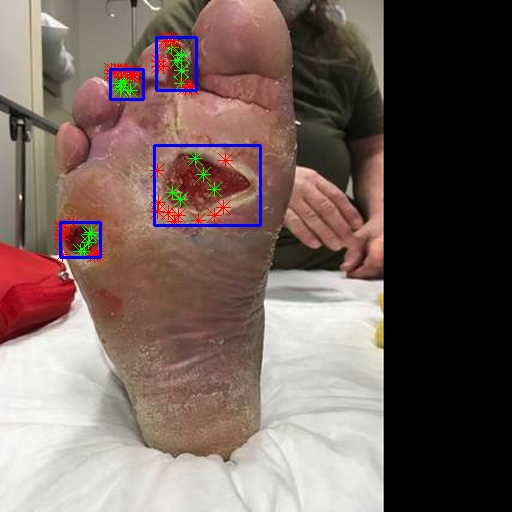
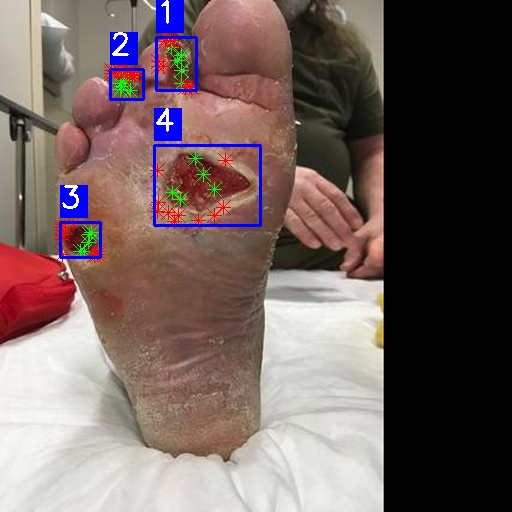
upgrade_app_web_v_1.3
la pagina muestra tiempo de ejecucion y cantidad de pixeles por lesion.

diff --git a/app_segmentation_lesion/static/js/main.js b/app_segmentation_lesion/static/js/main.js
@@ -7,7 +7,7 @@ const pointsImage = document.getElementById('pointsImage'); // Agrega esta líne
 // const detectedImage = document.getElementById('detectedImage');
 const downloadLink = document.getElementById('downloadLink');
 const spinner = document.getElementById('spinner');
-
+const pixelCountsContainer = document.getElementById('pixelCountsContainer');
 
 // Ocultar el enlace de descarga al inicio
 downloadLink.style.display = "none";
@@ -61,9 +61,6 @@ function checkForImages(attempts) {
     });
 }
 
-
-
-
 // Funcionalidad para enviar la imagen para detección
 form.addEventListener('submit', function(e) {
     e.preventDefault();
@@ -77,15 +74,66 @@ form.addEventListener('submit', function(e) {
         method: 'POST',
         body: formData
     })
-    .then(() => {
-        // Iniciar la verificación de imágenes
-        checkForImages(0);
+    .then(response => response.json()) // Procesar la respuesta en formato JSON
+    .then(data => {
+        // Ocultar el spinner
+        spinner.style.display = 'none';
+
+        // Mostrar los recuentos de píxeles
+
+        // Mostrar el tiempo de ejecución
+        const executionTimeElement = document.getElementById('executionTime');
+        executionTimeElement.textContent = `Processing Time: ${data.processing_time.toFixed(2)} s`;
+
+        // Mostrar los recuentos de píxeles
+        const pixelCountsContainer = document.getElementById('pixelCountsContainer');
+        pixelCountsContainer.innerHTML = '<h4>Pixel Counts:</h4>';
+        data.pixel_counts.forEach((count, index) => {
+            pixelCountsContainer.innerHTML += `<p>Lesion ${index + 1}: ${count} px</p>`;
+        });
+
+        // Mostrar las imágenes procesadas
+        overlayImage.src = '/static/' + data.overlay_path;
+        maskImage.src = '/static/' + data.mask_path;
+        pointsImage.src = '/static/' + data.bbox_path;
+
+        // Mostrar el enlace de descarga y las imágenes
+        downloadLink.href = `/static/${data.overlay_path.split('/').pop()}`;
+        downloadLink.style.display = "block";
+        overlayImage.style.display = "block";
+        maskImage.style.display = "block";
+        pointsImage.style.display = "block";
     })
     .catch(error => {
         spinner.style.display = 'none';
         console.error('Error:', error);
     });
 });
+
+
+
+// Funcionalidad para enviar la imagen para detección
+// form.addEventListener('submit', function(e) {
+//     e.preventDefault();
+
+//     // Mostrar el spinner
+//     spinner.style.display = 'block';
+
+//     const formData = new FormData(this);
+
+//     fetch('/detect_lesion', {
+//         method: 'POST',
+//         body: formData
+//     })
+//     .then(() => {
+//         // Iniciar la verificación de imágenes
+//         checkForImages(0);
+//     })
+//     .catch(error => {
+//         spinner.style.display = 'none';
+//         console.error('Error:', error);
+//     });
+// });
 
 
 // Función para verificar si hay imágenes en la carpeta 'static/detect_results'

diff --git a/app_segmentation_lesion/static/css/styles_2.css b/app_segmentation_lesion/static/css/styles_2.css
@@ -155,6 +155,24 @@ body, html {
     font-size: 18px; /* Tamaño de fuente más grande */
 }
 
+#resultsContainer {
+    margin-top: 20px;
+    padding: 15px;
+    border: 1px solid #ddd;
+    border-radius: 5px;
+    background-color: #f9f9f9;
+}
+
+#resultsContainer h3, #resultsContainer h4 {
+    color: #333;
+}
+
+#resultsContainer p {
+    color: #666;
+    margin-left: 20px;
+}
+
+
   /* Animación de Carga */
 #spinner {
     display: none;

diff --git a/app_segmentation_lesion/templates/index.html b/app_segmentation_lesion/templates/index.html
@@ -73,6 +73,11 @@
         <div class="main-row4" id="download-container">
             <a href="#" download class="btn btn-success" id="downloadLink">Download</a>
         </div>
+        <div id="resultsContainer">
+            <h3>Segmentation Results:</h3>
+            <p id="executionTime"></p>
+            <div id="pixelCountsContainer"></div>
+        </div>
         <div id="spinner" class="mt-3">
             <div></div>
         </div>

diff --git a/app_segmentation_lesion/app.py b/app_segmentation_lesion/app.py
@@ -11,7 +11,7 @@ import detect
 import generate_EDSR as gen_EDSR
 import tool_SVM
 import tool
-
+import time 
 sys.path.append("..")
 from segment_anything import sam_model_registry, SamPredictor
 from tqdm import tqdm
@@ -36,6 +36,7 @@ def index():
 
 @app.route("/detect_lesion", methods=['POST'])
 def detect_lesion():
+    start_time = time.time()  # Tiempo de inicio
     ruta_carpeta = 'predicts_RGB_VGG_VER'
     tool.create_new_file(ruta_carpeta)
     tool.create_new_file('crops')
@@ -81,6 +82,7 @@ def detect_lesion():
     img_view_2 = img.copy()
     img_bbox = img.copy()
 
+    pixel_counts = []  # Lista para almacenar el recuento de píxeles por máscara
 
     for bbox in bboxes:
         bbox = bbox[0]
@@ -116,8 +118,6 @@ def detect_lesion():
         if (method == 1 or method == 2 or method == 3):
             input_point_all, input_label_all = tool_SVM.prediction_SVM_predict('.', ruta_carpeta, 'generate_images_sr_img', n_segment, compactness, sigma, threshold , layer, [uploaded_file.filename], method, predictor, uploaded_file.filename)
         
-        
-
         #actualizacion de coordenadas
         for coord in input_point_all:
             coord[0] = x1 + coord[0]*fw
@@ -126,9 +126,15 @@ def detect_lesion():
         mask_pred = tool.segment_image(img, input_point_all, input_label_all, bbox, predictor)
         masks_pred.append(mask_pred)
 
+        # Cuenta los píxeles con valor 1 y almacénalo
+        pixel_count = np.sum(mask_pred == 1)
+        pixel_counts.append(pixel_count)
+
         # Actualizar img_view_2 y img_bbox dentro del bucle
         img_view_2 = tool.show_points_on_image(img_view_2, input_point_all, input_label_all, complete=True)
-        img_bbox = tool.draw_bbox(img_view_2, bbox, color=(255, 0, 0))
+
+
+    img_bbox = tool.draw_bbox_with_numbered_labels(img_view_2, bboxes, color=(255, 0, 0))
 
     if masks_pred:
         mask_predict_final = tool.unir_mascaras(masks_pred)
@@ -154,9 +160,14 @@ def detect_lesion():
     shutil.move('{}/{}/{}'.format(ruta_carpeta, 'marcas_images','mask.jpg'), destination_folder)
     shutil.move('{}/{}/{}'.format(ruta_carpeta, 'images_bbox', 'bbox_points.jpg'), destination_folder)
 
-    image_path = os.path.join('detect_results', uploaded_file.filename)
+    pixel_counts = [int(count) for count in pixel_counts]
+    end_time = time.time()  # Tiempo de finalización
+    processing_time = end_time - start_time  # Calcula el tiempo total
+    print(f"Tiempo de procesamiento: {processing_time} segundos")
     
     return jsonify({
+            "pixel_counts": pixel_counts,
+            "processing_time": processing_time,
             "overlay_path": os.path.join('detect_results', uploaded_file.filename),
             "mask_path": os.path.join('detect_results', 'mask.jpg'),
             "bbox_path": os.path.join('detect_results', 'bbox_points.jpg')

diff --git a/app_segmentation_lesion/tool.py b/app_segmentation_lesion/tool.py
@@ -820,7 +820,65 @@ def labels_visual_unet(img, mask, mask_sp):
   return mask, mask_sp, img, img_comparative
 
 
-def draw_bbox(img, bboxes, color=(255, 0, 0), thickness=2):
+
+def draw_bbox_with_numbered_labels(img, bboxes, color=(255, 0, 0), thickness=2, label_color=(255, 255, 255), label_bg_color=(255, 0, 0)):
+    """
+    Dibuja bounding boxes en la imagen con etiquetas numéricas.
+
+    Args:
+    img: Imagen en la que dibujar los bounding boxes.
+    bboxes: Lista de tuplas de bounding boxes, donde cada tupla contiene una lista de las coordenadas
+            del bounding box.
+    color: Color del bounding box en formato BGR. Por defecto es rojo.
+    thickness: Grosor de las líneas del bounding box. Por defecto es 2.
+    label_color: Color del texto de la etiqueta. Por defecto es blanco.
+    label_bg_color: Color de fondo para la etiqueta. Por defecto es rojo.
+
+    Returns:
+    img: Imagen con los bounding boxes y etiquetas numéricas dibujados.
+    """
+    font = cv2.FONT_HERSHEY_SIMPLEX
+    font_scale = 1
+    font_thickness = 2
+
+    for idx, bbox in enumerate(bboxes, start=1):
+        
+        bbox = bbox[0]
+        bbox = np.asarray(bbox, dtype=np.int32)
+        
+        
+        coordinates = bbox
+        start_point = (int(coordinates[0]), int(coordinates[1]))  # Coordenadas de la esquina superior izquierda
+        end_point = (int(coordinates[2]), int(coordinates[3]))  # Coordenadas de la esquina inferior derecha
+
+        # Dibuja el bounding box
+        img = cv2.rectangle(img, start_point, end_point, color, thickness)
+
+        # Etiqueta numérica
+        label = str(idx)
+
+        # Tamaño del texto
+        text_size = cv2.getTextSize(label, font, font_scale, font_thickness)[0]
+        text_x = start_point[0]
+        text_y = start_point[1] - 10
+
+        # Ajustes para evitar que el texto se salga de la imagen
+        if text_y < 0:
+            text_y = start_point[1] + text_size[1] + 10
+
+        # Coordenadas para el fondo del texto
+        label_bg_start = (text_x, text_y - text_size[1] - 5)
+        label_bg_end = (text_x + text_size[0] + 5, text_y + 5)
+
+        # Dibuja el fondo y el texto
+        img = cv2.rectangle(img, label_bg_start, label_bg_end, label_bg_color, cv2.FILLED)
+        img = cv2.putText(img, label, (text_x, text_y - 5), font, font_scale, label_color, font_thickness)
+
+    return img
+
+
+
+def draw_bbox_original(img, bboxes, color=(255, 0, 0), thickness=2):
     """
     Dibuja bounding boxes en la imagen.
 
@@ -987,7 +1045,7 @@ def exp_green(x1):
     x2 = math.exp(a * math.log(x1) + b)
     return x2
 
-def draw_bbox(img, coordinates, color=(255, 0, 0), thickness=2):
+def draw_bbox_each(img, coordinates, color=(255, 0, 0), thickness=2):
     """
     Dibuja bounding boxes en la imagen.
 
